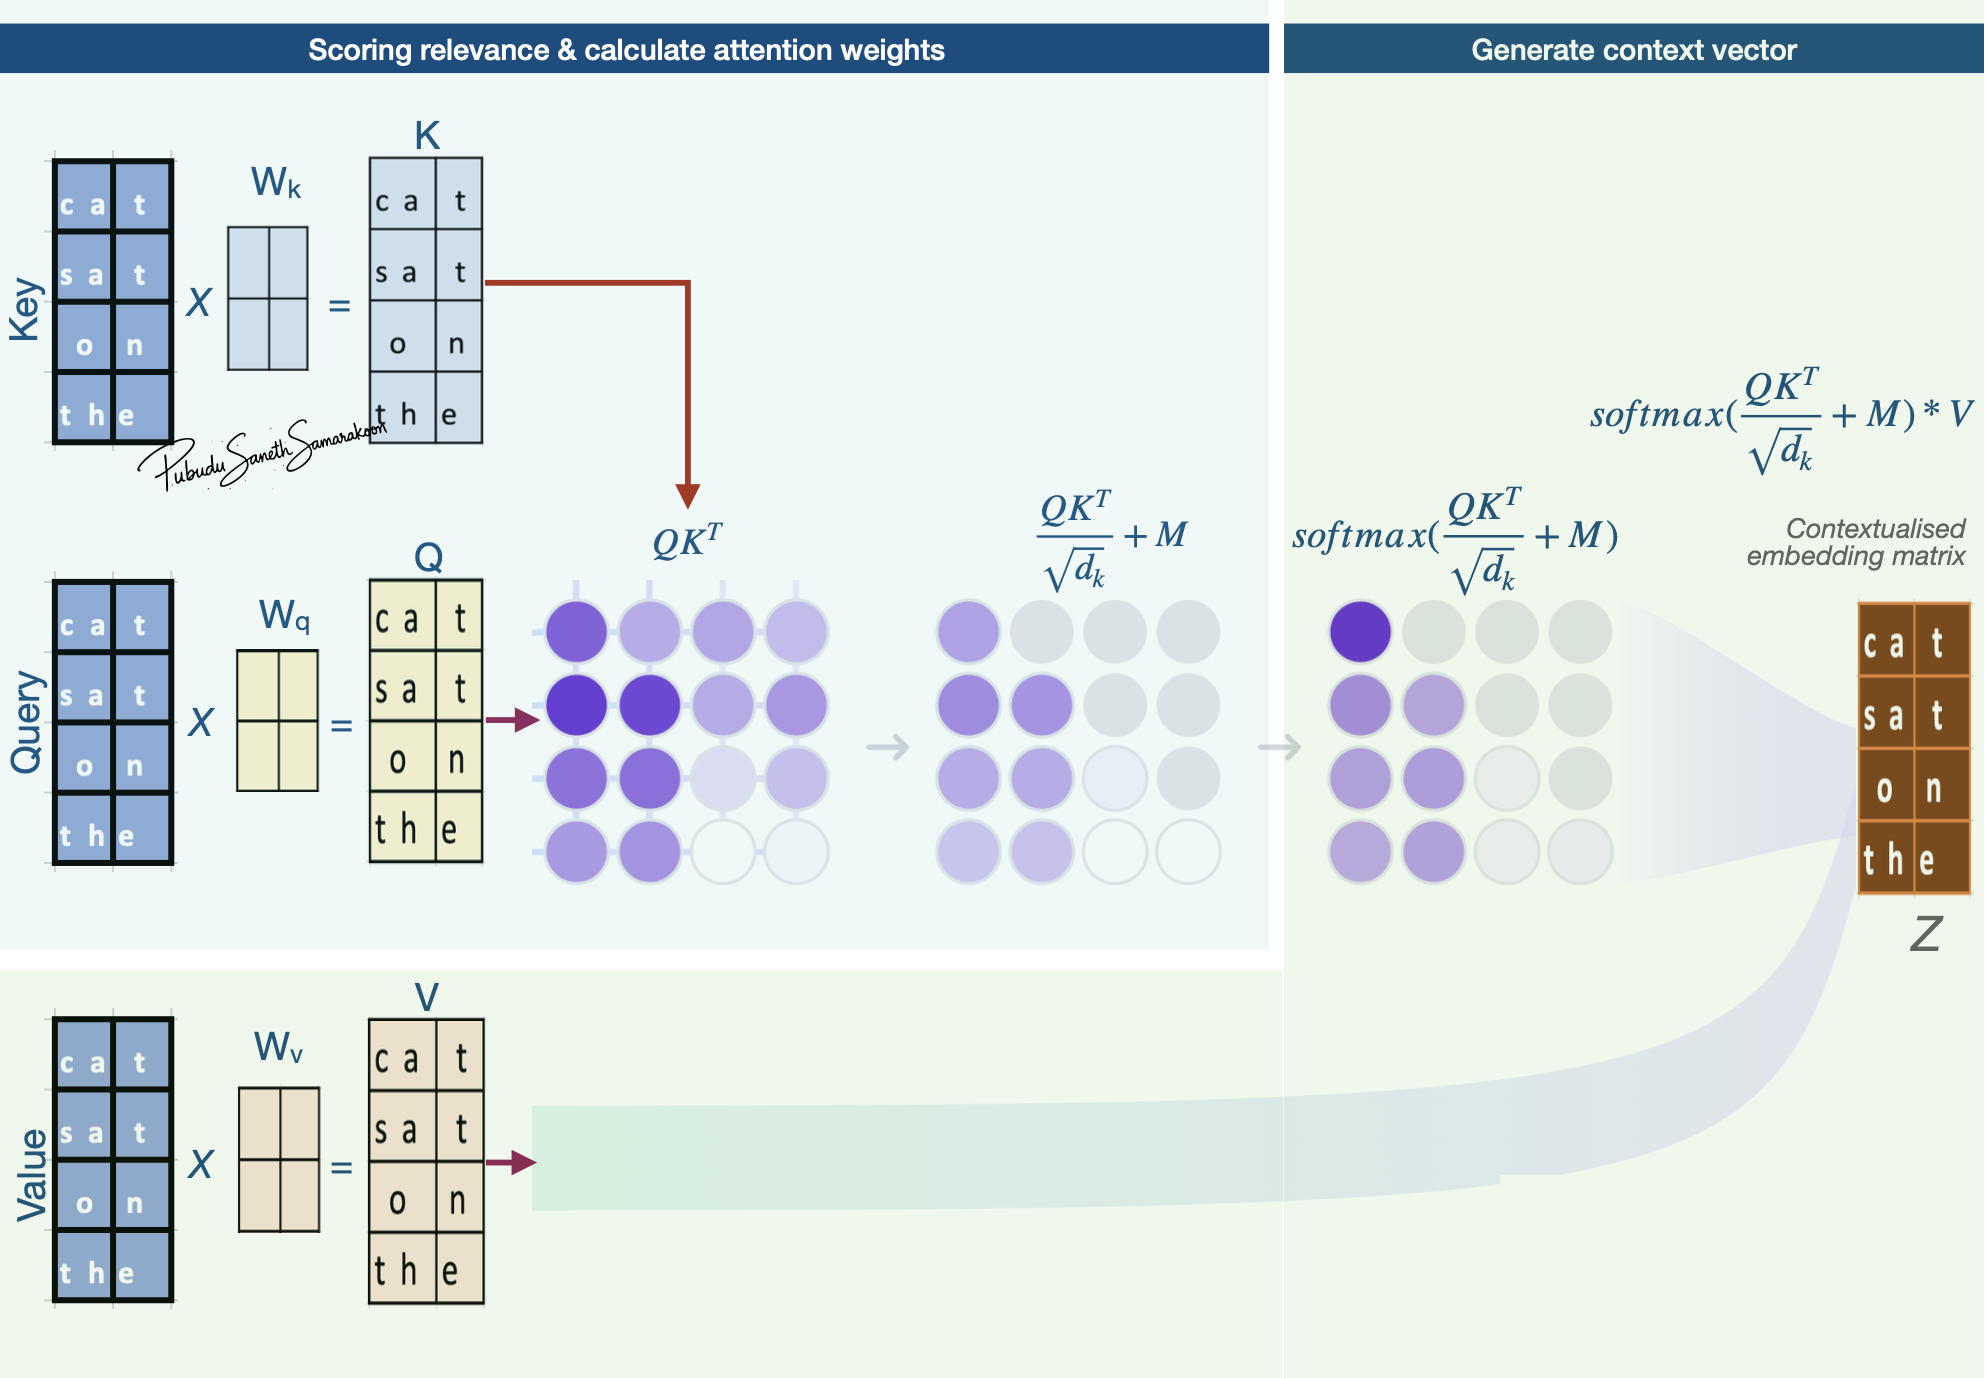
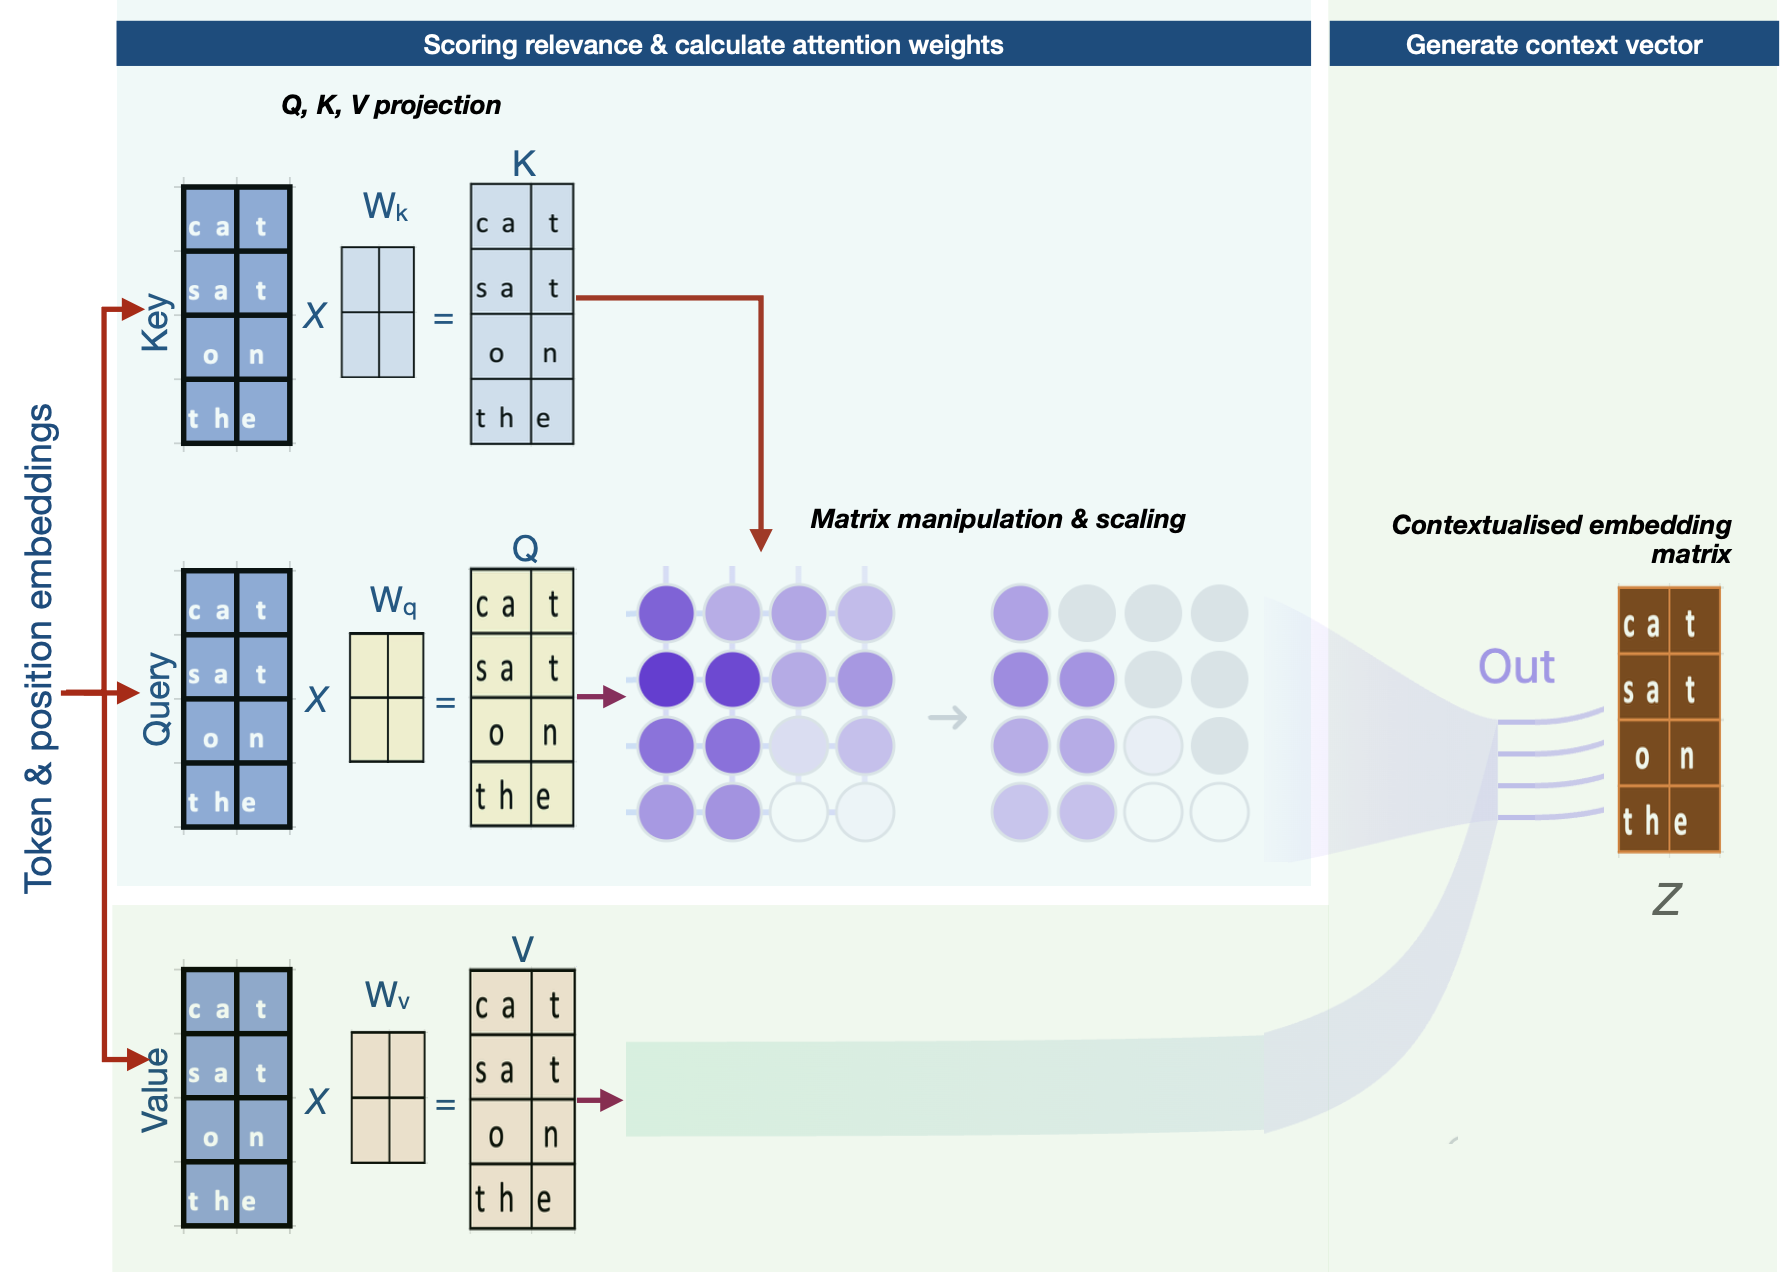
refine attention-mech notes

diff --git a/content/06.Attention_mechanism.md b/content/06.Attention_mechanism.md
@@ -15,7 +15,7 @@
 - Two main steps mechanism:
   1. Scoring relevance ("attending to"/"considering" all tokens) & calculate attention weights (relevance scores)
   2. Combine attention weights and generate context vector (new enriched representation)
-- Context vector (enriched representation):
+- Context vector (context-aware representation / enriched representation):
   - Captures the specific meaning of a token embeddings within its surrounding embeddings
   - Allow the model to understand relationships and dependencies between words, regardless of how far apart they are in the sentence
 
@@ -26,38 +26,85 @@
 ![alt text](images/Q_K_V_attention_explainer.png)
 *Source (modified): [transformer-explainer](https://poloclub.github.io/transformer-explainer/)*
 
-- $𝑄$, $𝐾$ and $V$: matrices: Representation of input token embeddings
-- $𝑄_{𝑚𝑎𝑡𝑟𝑖𝑥}$: Queries
-  - Token representations that are used as queries in relevance scoring (embeddings that are used as queries for the "comparison")
-- $𝐾_{𝑚𝑎𝑡𝑟𝑖𝑥}$: Keys
-  - Token representations that get compared to queries
-- $V_{𝑚𝑎𝑡𝑟𝑖𝑥}$: Values
-  - Token representations that are used to combine attention weights and generate context vector
+### Step 1: Calculate attention weights
 
-## Calculate attention weights
+:::{Note}
+
+- Important to understand three main concepts in attention weights calculation
+  - *Q, K and V* roles input token embeddings play in attention mechanism
+  - *Q, K, V projection* and *learnable projection matrices* used in the projection
+  - *Attention weights*
+
+:::
+
+**Three roles of input token embeddings: Queries (Q), Keys (K), and Values (V):**
+
+- Input token embeddings play three distinct roles in the attention mechanism
+- *Queries (Q)* "attend" to other vectors in the input sequence and serve as starting points to generate context vectors
+- *Keys (K)* gets compared to (matched with) *Queries (Q)* when calculating attention scores (relevance scores)
+- *Values (V)* serve as "reference values" that summarize scores from all-vs-all *Q* and *K* matching
+
+**Q, K, V projection:**
+
+- First step in attention mechanism is to project *Q, K, V embeddings* to $𝑄_{𝑚𝑎𝑡𝑟𝑖𝑥}$, $K_{𝑚𝑎𝑡𝑟𝑖𝑥}$ and $V_{𝑚𝑎𝑡𝑟𝑖𝑥}$ representations via a *learnable projection matrices*
+- $𝑄_{𝑚𝑎𝑡𝑟𝑖𝑥}$: Vectors that "attend" to other vectors in the input sequence. (Actual vectors that are used as queries for the "comparison / attention")
+- $𝐾_{𝑚𝑎𝑡𝑟𝑖𝑥}$: Vectors that get compared to queries
+- $V_{𝑚𝑎𝑡𝑟𝑖𝑥}$: Vectors that are used to combine values from previous step and generate context vector
+- $𝑄_{𝑚𝑎𝑡𝑟𝑖𝑥}$, $K_{𝑚𝑎𝑡𝑟𝑖𝑥}$ and $V_{𝑚𝑎𝑡𝑟𝑖𝑥}$ have similar dimensions to Q, K, V embeddings, but the values in these matrices can get updated during the model training (due to the *learnable projection matrices:* $W_{q}$, $W_{k}$ and $W_{v}$)
+
+**Learnable projection matrices:** $W_{q}$, $W_{k}$ and $W_{v}$
+
+- Without these projection matrices, the relationship between embeddings would be static
+- The learnable matrices ensure that the attention mechanism is dynamic and allows $𝑄_{𝑚𝑎𝑡𝑟𝑖𝑥}$, $K_{𝑚𝑎𝑡𝑟𝑖𝑥}$ and $V_{𝑚𝑎𝑡𝑟𝑖𝑥}$ get updated in model training
+- Allow the model to learn how to interpret embeddings differently depending on their context in the input sequence
+  - Learnability allow the model to discover and optimize complex linguistic patterns during training
+
+**Attention weights:**
+
+- Attention weights are calculated by:
+  1. Multiplies the Query vectors by the all the Key vectors in the sequence
+  2. Scale these scores
+  3. Convert scaled scores to probabilities
+- These probabilities (attention weights) help model determine how much focus the current token should put on other tokens
+
+### Step 2: Generate context vector
+
+- Once attention weights are calculated, the model uses them to aggregate information.
+- The result is a new, enriched vectors that contain context from the relevant parts of the sequence
+
+## Understanding scaled Dot-Product Attention
 
 - Attention weights: $softmax(\frac{QK^T}{\sqrt{d_k}})$
+- Context vector calculation: $softmax(\frac{QK^T}{\sqrt{d_k}})*V$
 
-### Main Stages
-
-- **Stages 1**: Dot product to calculate attention score (matrix manipulation: ${QK^T}$):
-  - Provides unscaled attention score (initial relevance scores) - A higher dot product means the two tokens are more aligned (similar context)
-  - Indicates how aligned vectors in $𝑄_{𝑚𝑎𝑡𝑟𝑖𝑥}$ with vectors in $𝐾_{𝑚𝑎𝑡𝑟𝑖𝑥}$ 
-  - i.e., how much focus $𝑄_{𝑚𝑎𝑡𝑟𝑖𝑥}$ vectors should put on $𝐾_{𝑚𝑎𝑡𝑟𝑖𝑥}$ vectors
-  - Matrix manipulation enables simultaneously compare all the vectors in $𝑄_{𝑚𝑎𝑡𝑟𝑖𝑥}$ to $𝐾_{𝑚𝑎𝑡𝑟𝑖𝑥}$
-- **Stage 2**: Scaling: Scaled attention score
-  - Help avoid high-values in attention score and stabilize gradients
-- **Stage 3**: Calculate "Attention weights"
-  - Apply `softmax` function to scaled attention scores and calculate "Attention weights"
-  - `softmax` function makes values to be positive and sums up 1 (convert to probabilities)
-  - i.e., Convert attention scores to attention weights (probabilities) what shows "relative importance" $𝑄_{𝑚𝑎𝑡𝑟𝑖𝑥}$ vectors put on $𝐾_{𝑚𝑎𝑡𝑟𝑖𝑥}$ vectors
+### Main Stages: $softmax(\frac{QK^T}{\sqrt{d_k}})$
 
 ![alt text](images/Calculate-attention-weights.png)
 
-## Generate context vector
+**Stages 1:  Calculate attention score with `dot product` (${QK^T}$):**
+
+- Provides unscaled attention score (initial relevance scores) - A higher dot product means the two tokens are more aligned (similar context)
+- Indicates how aligned vectors in $𝑄_{𝑚𝑎𝑡𝑟𝑖𝑥}$ with vectors in $𝐾_{𝑚𝑎𝑡𝑟𝑖𝑥}$ 
+- i.e., how much focus $𝑄_{𝑚𝑎𝑡𝑟𝑖𝑥}$ vectors should put on $𝐾_{𝑚𝑎𝑡𝑟𝑖𝑥}$ vectors
+- Matrix manipulation enables simultaneously compare all the vectors in $𝑄_{𝑚𝑎𝑡𝑟𝑖𝑥}$ to $𝐾_{𝑚𝑎𝑡𝑟𝑖𝑥}$
+
+**Stage 2: Scaling:**
+
+- Scaled attention scores
+- Help avoid high-values in attention score and stabilize gradients
+
+**Stage 3: Calculate "Attention weights":**
+
+- Apply `softmax` function to scaled attention scores and calculate "Attention weights"
+- `softmax` function makes values to be positive and sums up 1 (convert to probabilities)
+- i.e., Convert attention scores to attention weights (probabilities) what shows "relative importance" $𝑄_{𝑚𝑎𝑡𝑟𝑖𝑥}$ vectors put on $𝐾_{𝑚𝑎𝑡𝑟𝑖𝑥}$ vectors
+
+
+### Main Stages: $softmax(\frac{QK^T}{\sqrt{d_k}})*V$
 
 - Multiply these attention weights by the Value vectors ($V_{𝑚𝑎𝑡𝑟𝑖𝑥}$) and produce final context vector
 
 ![alt text](images/Generate-context-vector.png)
+
 - $𝑊_{𝑡ℎ𝑒}$: To what extent token "the" attend to (focus on) each input token (attention weights)
 - $𝑉_{𝑚𝑎𝑡𝑟𝑖𝑥}$: Representation of input token embedding matrix
